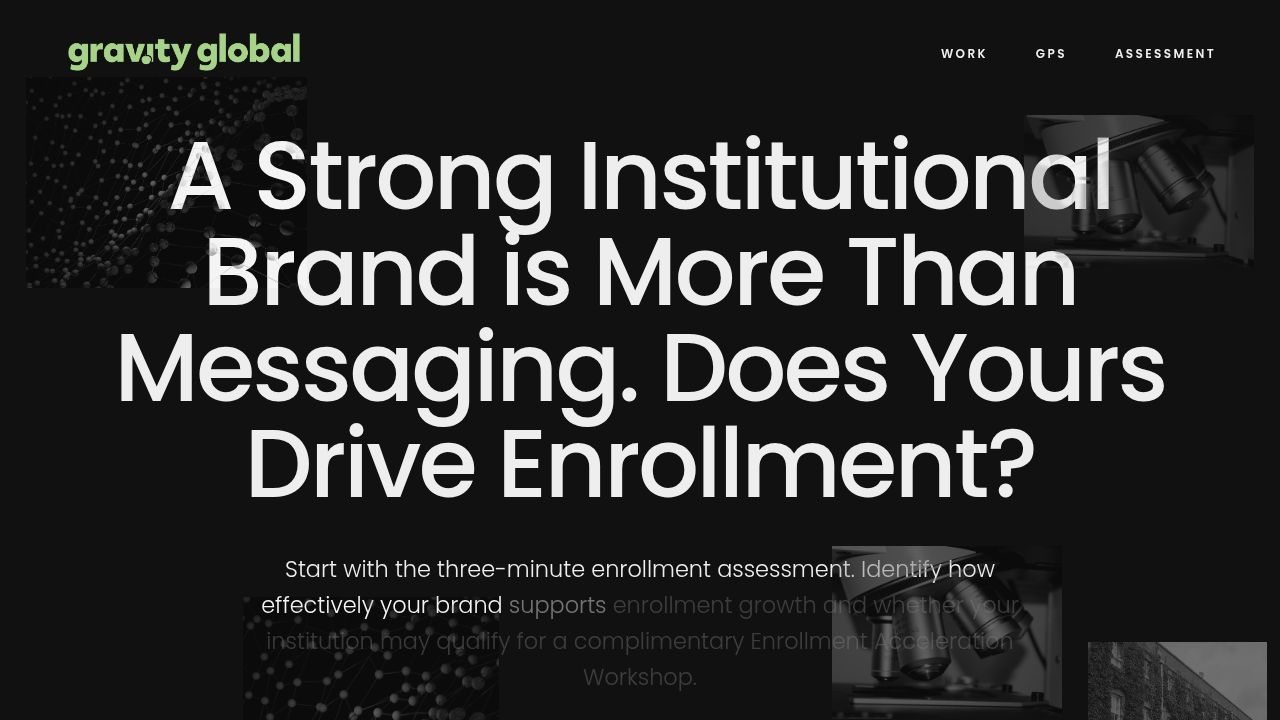
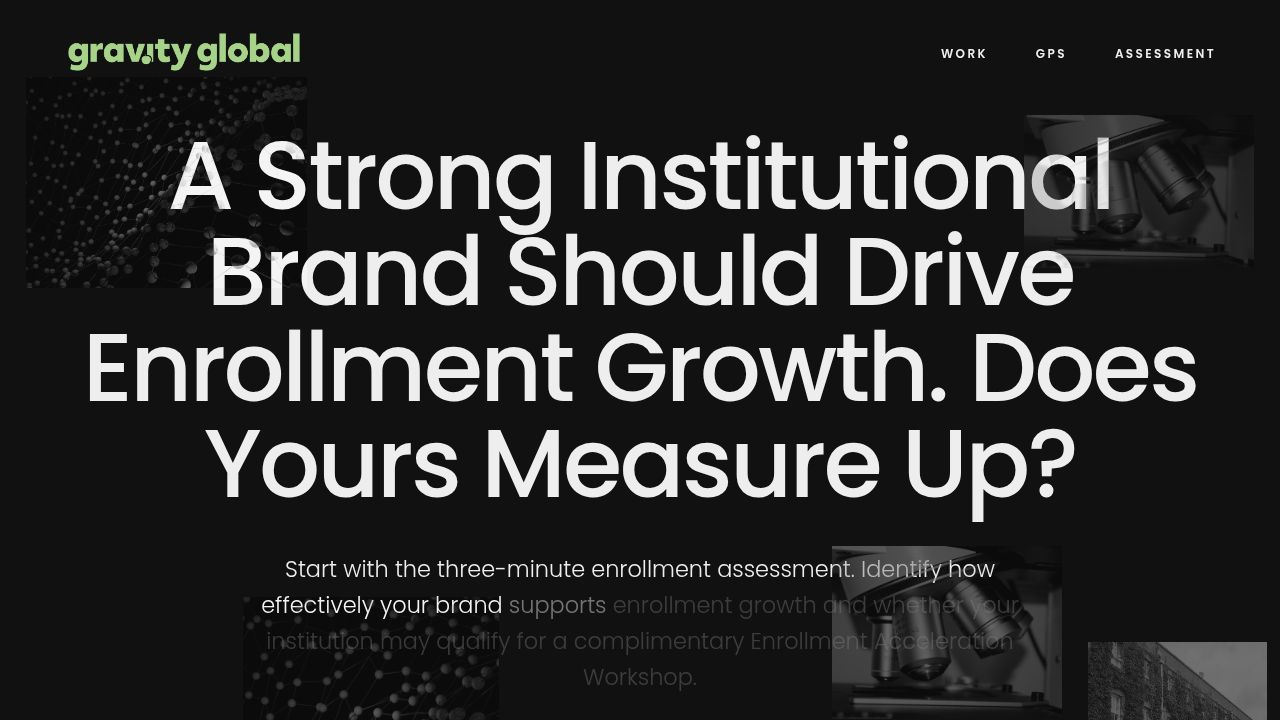
Update the main heading to reflect the enrollment growth question
Modify the heading text in the Home component and update the opengraph image.

Replit-Commit-Author: Agent
Replit-Commit-Session-Id: d6e0730f-b30e-491c-b3e2-d3f84d242913
Replit-Commit-Checkpoint-Type: full_checkpoint
Replit-Commit-Event-Id: 6bb5f910-3661-4ecc-ad40-aa143144474f
Replit-Commit-Screenshot-Url: https://storage.googleapis.com/screenshot-production-us-central1/9cd8e13a-6fcb-4403-b32e-22f1f94d53f9/d6e0730f-b30e-491c-b3e2-d3f84d242913/wRRqo4u
Replit-Helium-Checkpoint-Created: true

Changed region(s): [[0.0625, 0.4583, 0.9375, 0.7333], [0.1562, 0.3056, 0.8438, 0.4278]]

diff --git a/client/src/pages/Home.tsx b/client/src/pages/Home.tsx
@@ -134,7 +134,7 @@ export default function Home() {
         {/* Center Text */}
         <div className="relative z-10 flex flex-col items-center text-center px-6 w-full max-w-[1200px] mix-blend-difference text-white">
           <h1 className="text-[3rem] sm:text-[4rem] md:text-[5rem] lg:text-[6rem] font-medium leading-[1] tracking-[-0.03em] mb-10 text-white">
-            <ScrollRevealText text="A Strong Institutional Brand is More Than Messaging. Does Yours Drive Enrollment?" startOffset={0.9} endOffset={0.5} />
+            <ScrollRevealText text="A Strong Institutional Brand Should Drive Enrollment Growth. Does Yours Measure Up?" startOffset={0.9} endOffset={0.5} />
           </h1>
           <p className="text-xl md:text-[1.4rem] text-white max-w-[760px] mb-16 leading-[1.6] font-light">
             <ScrollRevealText text="Start with the three-minute enrollment assessment. Identify how effectively your brand supports enrollment growth and whether your institution may qualify for a complimentary Enrollment Acceleration Workshop." startOffset={0.9} endOffset={0.6} />
